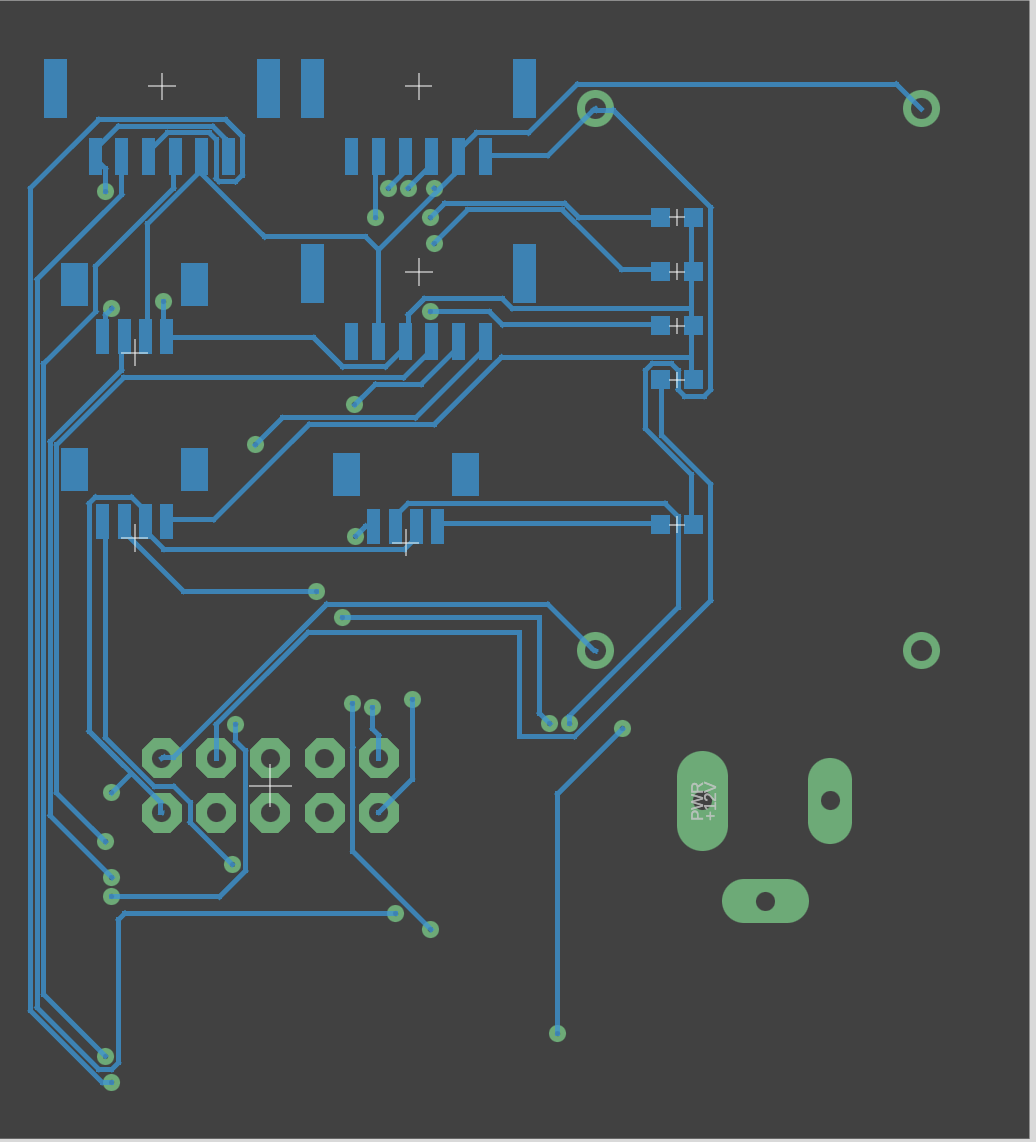
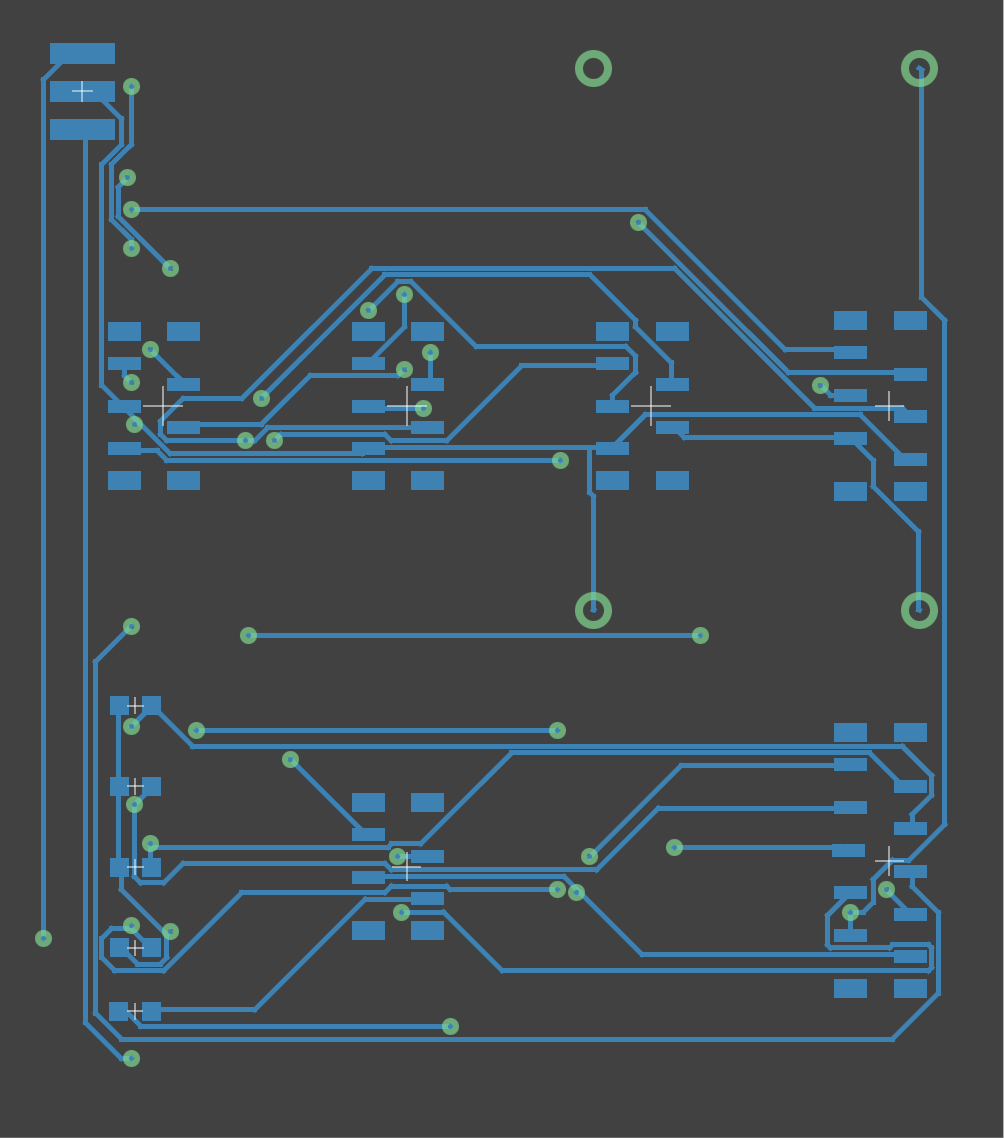
Update the Circuit diagram and PCB snapshots.
* Replace the big, ugly connectors to vertical surface mounted ribbon
  cable connectors.
* Shrunk the PCB as much as possible.
  It's now 47x53mm! Sould fit in the palm of my hand. With ease!
* Add the Fusion360 3D images of the PCB.

diff --git a/README.md b/README.md
@@ -347,6 +347,17 @@ they are anyway.
 ![PCB - Top (without components)](./PCB%20-%20Top%20%281%29.png)
 ![PCB - Top (with components)](./PCB%20-%20Top%20%282%29.png)
 
+Fusion360 can even generate a 3D object of the PCB! Unfortunately, there's some 3D footprints etc missing, so it's
+not *that* very accurate. But pretty anyway :).
+
+![PCB - Bottom (3D)](./PCB%20-%20Bottom%20%283D%29.png)
+![PCB - Top (3D)](./PCB%20-%20Top%20%283D%29.png)
+
+.. and the perspective view.
+
+![PCB - Bottom (3D - Perspective)](./PCB%20-%20Bottom%20%283D%20-%20Perspective%29.png)
+![PCB - Top (3D - Perspective)](./PCB%20-%20Top%20%283D%20-%20Perspective%29.png)
+
 # Source code
 
 ## Code testing and setup
